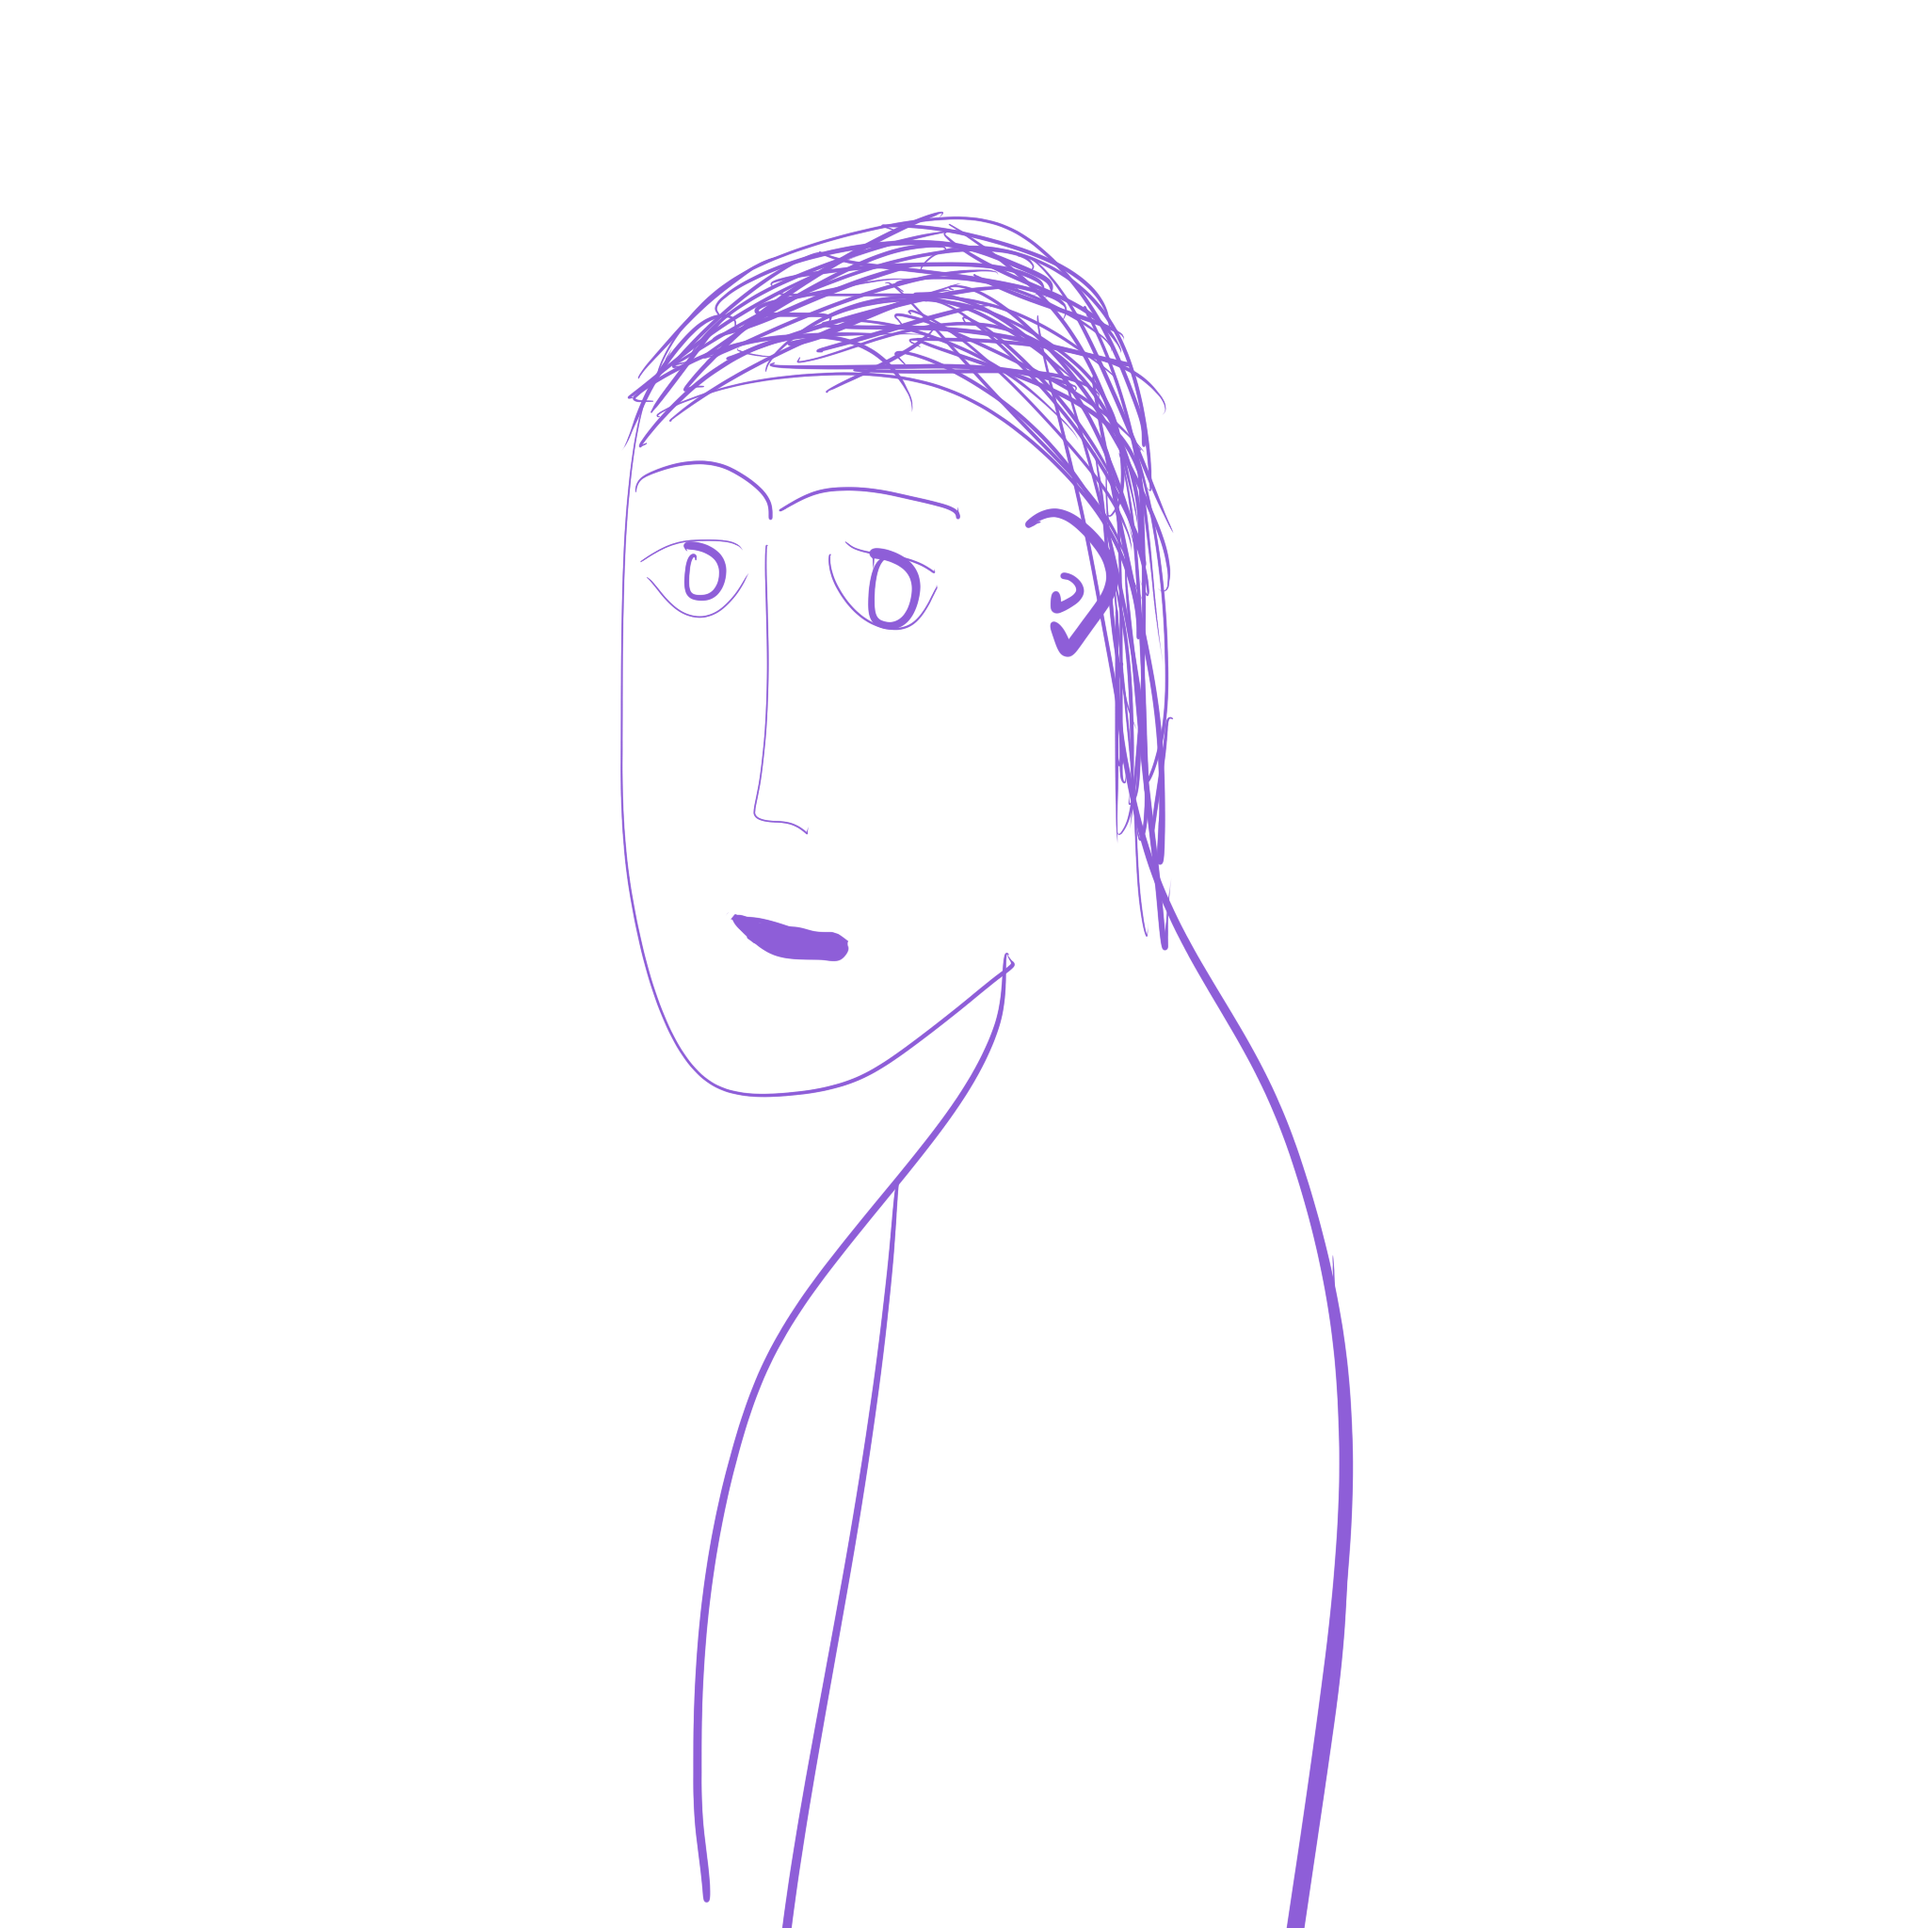
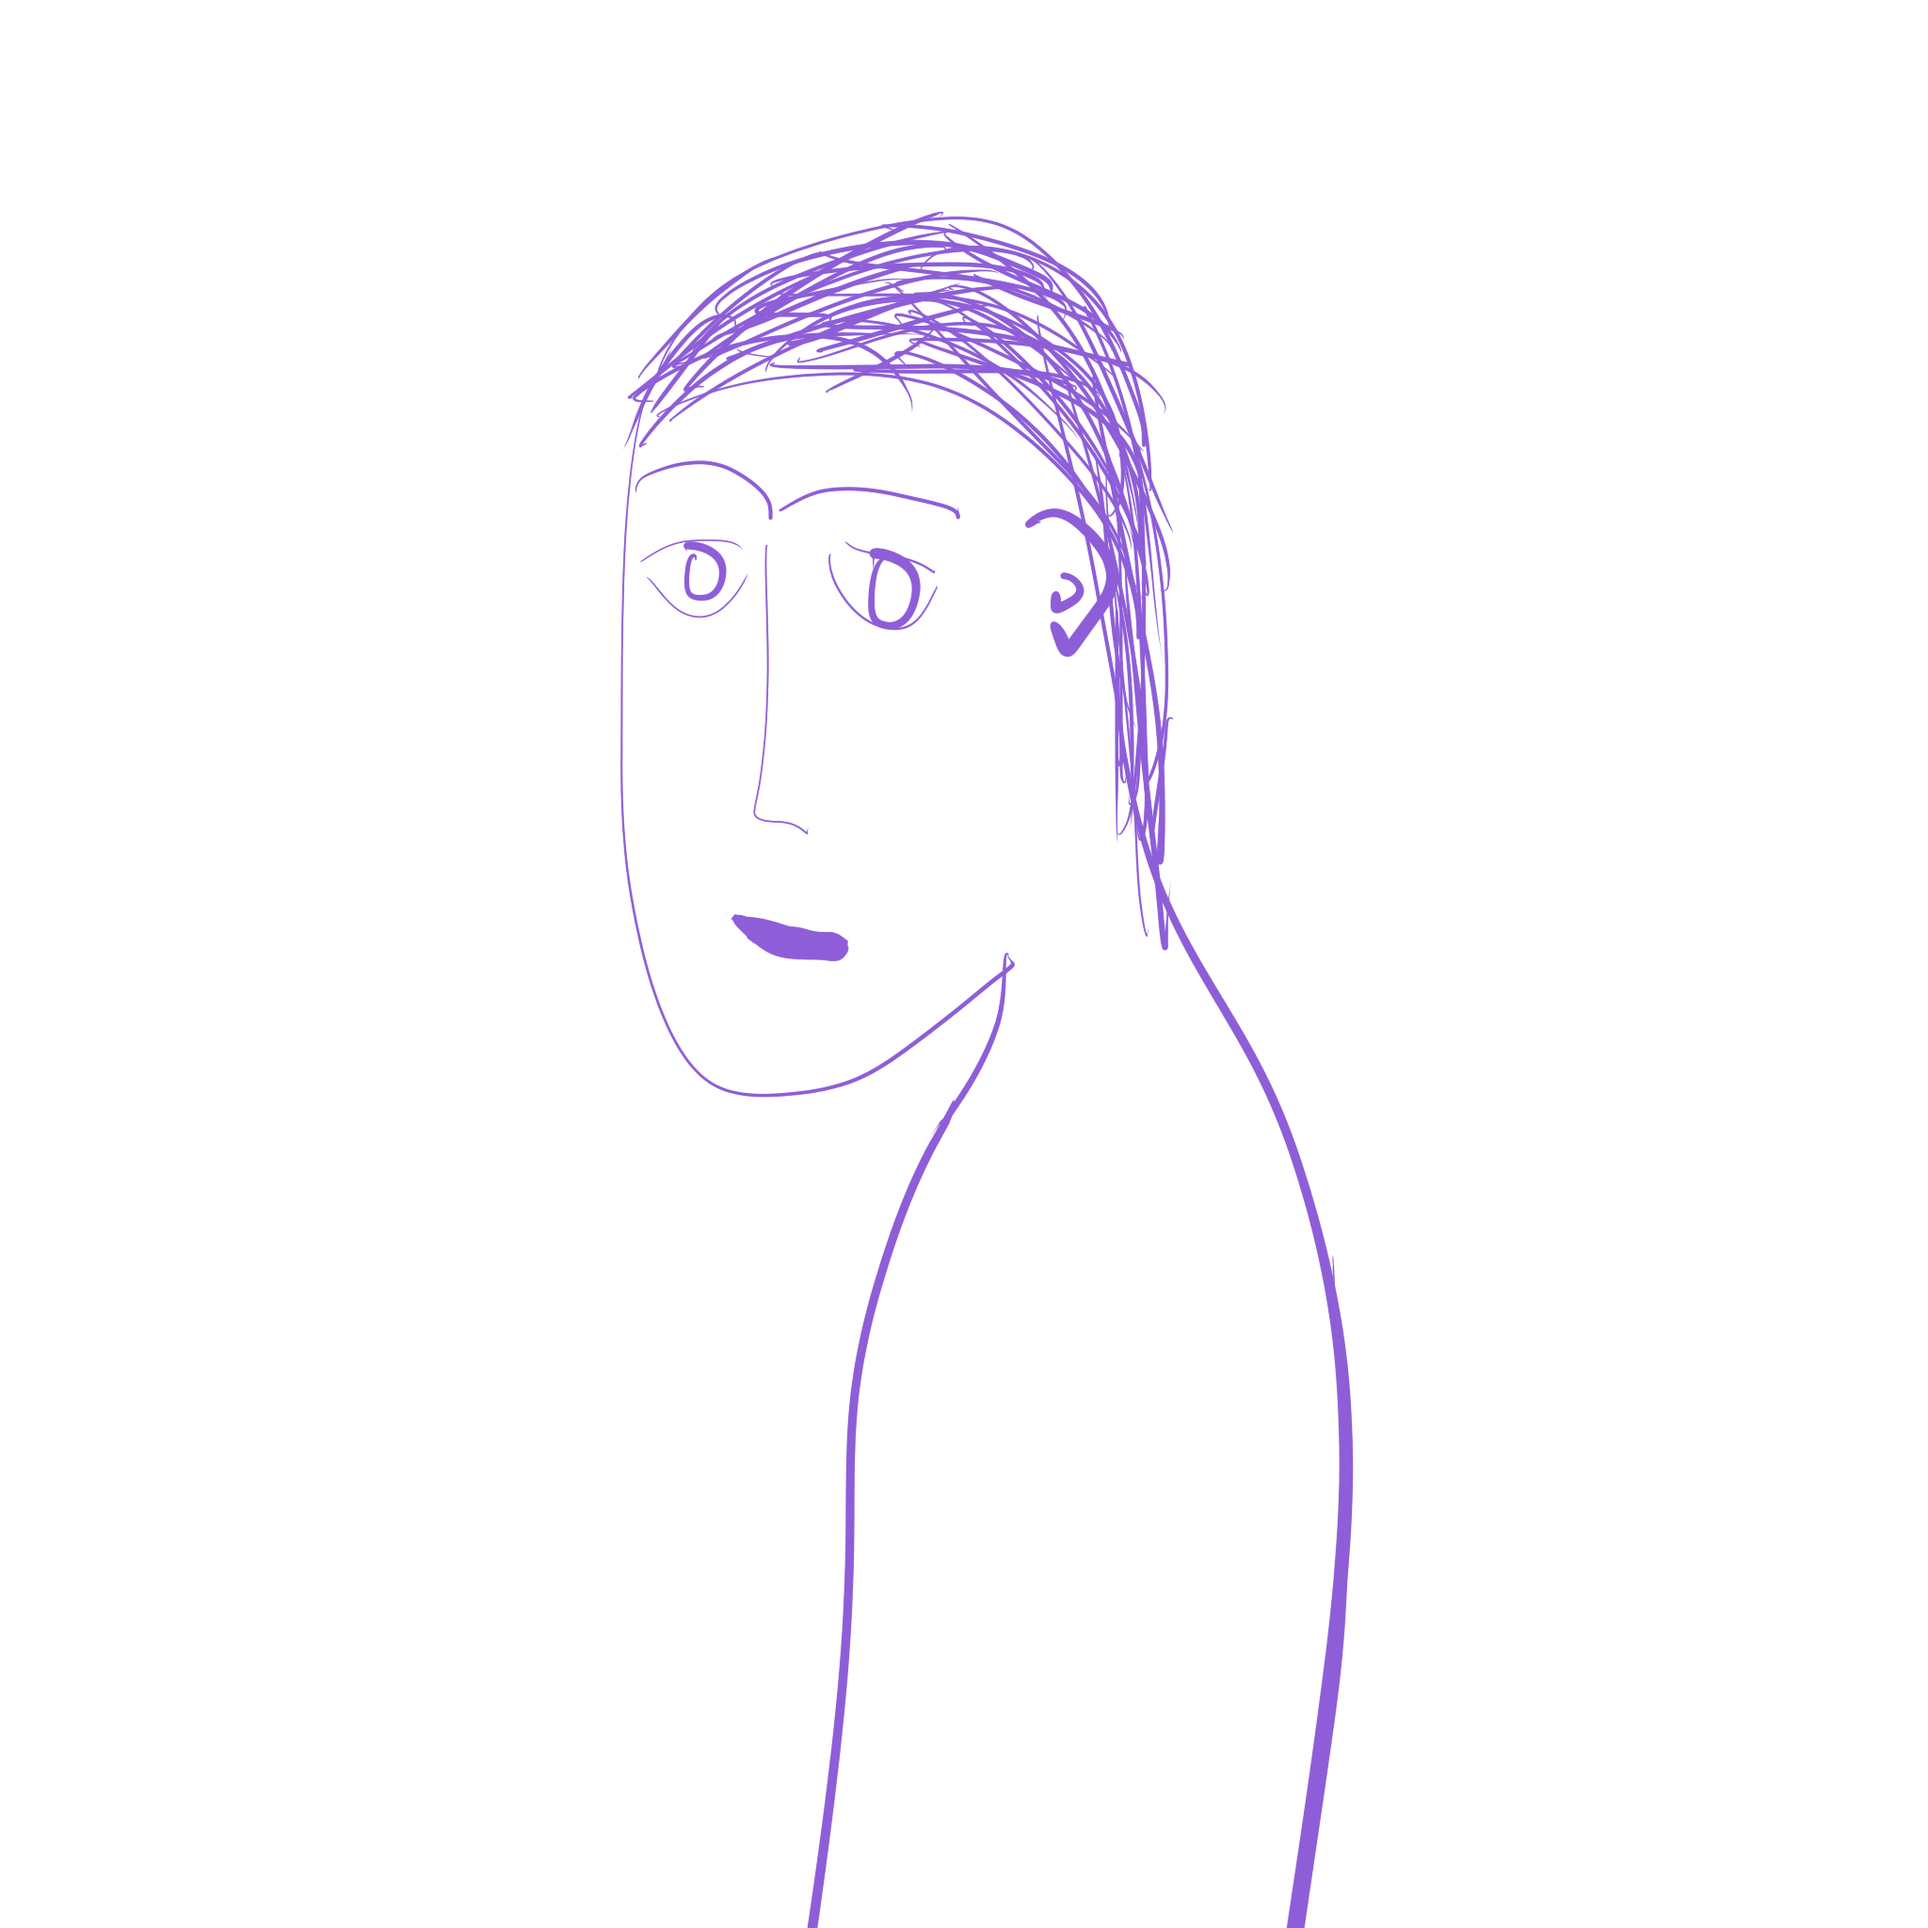
rev

diff --git a/_posts/2017-04-15-flow-2.md b/_posts/2017-04-15-flow-2.md
@@ -1,0 +1,8 @@
+---
+layout:     post
+title:      flow 2
+date:       2017-04-15 23:06:49
+summary:    
+categories: drawing
+---
+![flow 2](/images/diary/flow-2.png ".")
